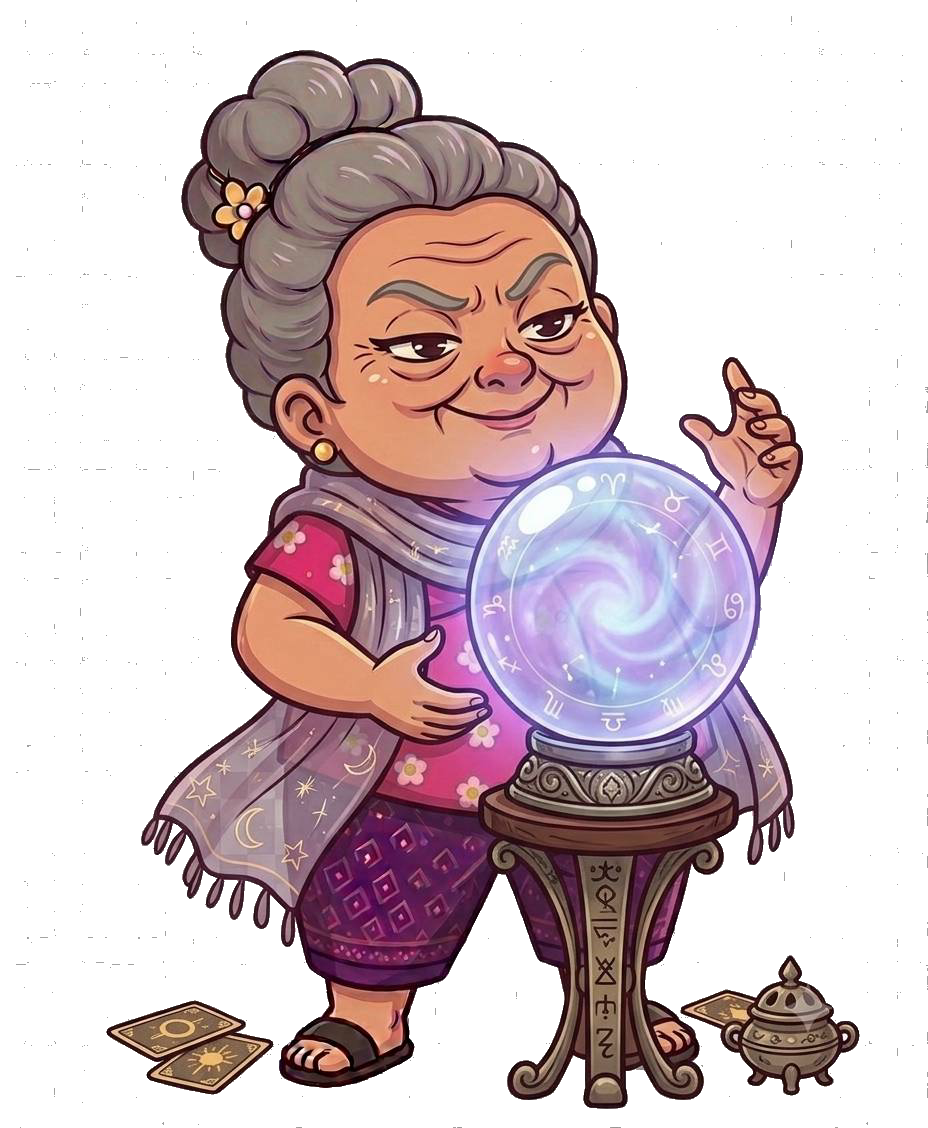
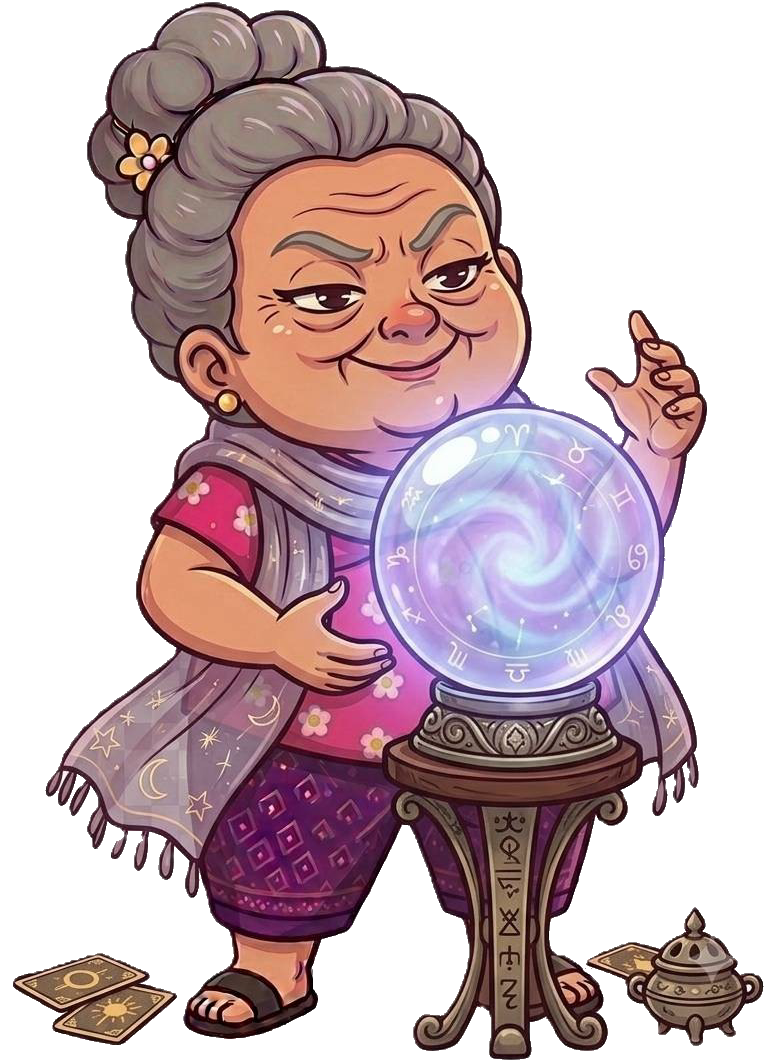
feat: การ์ดแชร์ดีไซน์ใหม่ตาม sample (หัวกระดาษ pattern), แก้วงล้อ ท, ตัด 12/13 ใหม่
- การ์ดแชร์ LINE: ดีไซน์ใหม่ตาม sample — หัวกระดาษ pattern (โลโก้+ชื่อแอป) ใช้ซ้ำทุกการ์ด,
  พื้นเหลือง, ป้าอ้วนซ้าย + บับเบิลผล+คำพูด, ป้ายเกริ่น (พิลล์) + ลายเซ็นแอป
  หน้าอาหารส่ง tagline/watermark เฉพาะ
- วงล้อ: กลับเป็นตัวดำขอบขาว + strokeLinejoin/cap=round → ลบขีดขาวใต้ตัว ท
- ตัดขอบรูป 12 (หมอดู) / 13 (แฟชั่น) ใหม่จากต้นฉบับพื้นขาว ละเอียดขึ้น

diff --git a/src/components/CaptureCard.tsx b/src/components/CaptureCard.tsx
@@ -1,9 +1,9 @@
 /**
- * 🖼 CaptureCard — การ์ดผลลัพธ์แบบมีแบรนด์ ไว้ "แคปเป็นภาพ" เพื่อแชร์
- * สิ่งที่เห็นในการ์ดนี้ = สิ่งที่จะถูกเซฟเป็นรูปส่ง LINE (WYSIWYG)
+ * 🖼 CaptureCard — การ์ดผลลัพธ์แบบมีแบรนด์ ไว้ "แคปเป็นภาพ" เพื่อแชร์ LINE (WYSIWYG)
+ * ดีไซน์ตาม sample: หัวกระดาษ (pattern โลโก้+ชื่อแอป) → ป้าอ้วนซ้าย + บับเบิลผล+คำพูด → ลายเซ็นแอป
  *
- * ส่ง ref เข้ามาจากหน้าจอ แล้วใช้ ShareButton แคปจาก ref นี้
- * children = เนื้อผลลัพธ์ (ตัวเลข/ชื่อ/สี/รายการทีม ฯลฯ)
+ * - หัวกระดาษใช้ไฟล์ pattern.jpg (ใช้ซ้ำทุกการ์ดแชร์ทุกเครื่องสุ่ม)
+ * - children = เนื้อผลลัพธ์ (ชื่อเมนู/ตัวเลข/สี/รายการ ฯลฯ) โชว์เด่นในบับเบิล
  */
 import { forwardRef, ReactNode } from 'react';
 import { Image, StyleSheet, Text, View } from 'react-native';
@@ -13,33 +13,56 @@ import { fonts, fontSize } from '@/theme/typography';
 import { cartoonBox } from '@/theme/styles';
 import type { PaaUanMood } from '@/data/paaUanLines';
 
+// หัวกระดาษแบรนด์ (ไอคอนแอป + ชื่อ "ป้าอ้วน สุ่มให้") — ใช้ซ้ำทุกการ์ด
+const PATTERN = require('../../assets/images/pattern.jpg');
+
 interface Props {
   /** คำพูดป้าที่จะโชว์ในบับเบิลของการ์ด */
   comment: string;
   mood?: PaaUanMood;
-  /** บังคับเลือกอิริยาบทรูปเอง (เช่น 'dice' หน้าลูกเต๋า) — ถ้าใส่จะข้าม mood */
+  /** บังคับเลือกอิริยาบทรูปเอง (เช่น 'dice') — ถ้าใส่จะข้าม mood */
   pose?: PaaUanPose;
+  /** ป้ายเกริ่น (พิลล์) ใต้หัวกระดาษ เช่น "🍜 สุ่มเมนูวันนี้ ป้าจัดให้!" — ไม่ใส่ก็ไม่โชว์ */
+  tagline?: string;
+  /** ข้อความลายเซ็นใต้การ์ด (ปรับตามเครื่องสุ่มได้) */
+  watermark?: string;
   children: ReactNode;
 }
 
 export const CaptureCard = forwardRef<View, Props>(
-  ({ comment, mood = 'happy', pose, children }, ref) => {
+  (
+    { comment, mood = 'happy', pose, tagline, watermark = 'สุ่มจากใจป้าอ้วน 👵❤', children },
+    ref
+  ) => {
     const source = paaUanPoses[pose ?? paaUanByMood[mood]];
     return (
       // collapsable={false} จำเป็นบน Android เพื่อให้ view-shot แคปได้
       <View ref={ref} collapsable={false} style={styles.card}>
-        <Text style={styles.wordmark}>ป้าอ้วนสุ่มให้</Text>
+        {/* หัวกระดาษแบรนด์ */}
+        <Image source={PATTERN} style={styles.pattern} resizeMode="contain" />
 
-        <View style={styles.resultArea}>{children}</View>
+        {/* ป้ายเกริ่น (พิลล์) — โชว์เมื่อส่ง tagline มา */}
+        {tagline ? (
+          <View style={styles.taglinePill}>
+            <Text style={styles.taglineText}>{tagline}</Text>
+          </View>
+        ) : null}
 
-        <View style={styles.bubbleRow}>
+        {/* ป้าอ้วน (ซ้าย) + บับเบิลผล+คำพูด (ขวา) */}
+        <View style={styles.row}>
           <Image source={source} style={styles.paa} resizeMode="contain" />
+
           <View style={styles.bubble}>
-            <Text style={styles.bubbleText}>{comment}</Text>
+            <View style={styles.resultArea}>{children}</View>
+            <Text style={styles.comment}>{comment}</Text>
+
+            {/* หางบับเบิลชี้ไปทางป้า (ซ้าย) */}
+            <View style={styles.tailBorder} />
+            <View style={styles.tailFill} />
           </View>
         </View>
 
-        <Text style={styles.watermark}>สุ่มโดยแอป “ป้าอ้วนสุ่มให้” 👵</Text>
+        <Text style={styles.watermark}>{watermark}</Text>
       </View>
     );
   }
@@ -49,45 +72,91 @@ CaptureCard.displayName = 'CaptureCard';
 
 const styles = StyleSheet.create({
   card: {
-    ...cartoonBox(colors.cream, 5),
-    padding: 18,
-    gap: 14,
+    ...cartoonBox(colors.butter, 5),
+    padding: 16,
+    gap: 12,
   },
-  wordmark: {
+  pattern: {
+    width: '100%',
+    aspectRatio: 2.4, // หัวกระดาษกว้าง (โลโก้+ชื่อแอป) ไม่ให้สูงเกินไป
+    alignSelf: 'center',
+  },
+  taglinePill: {
+    alignSelf: 'center',
+    backgroundColor: colors.white,
+    borderWidth: 2.5,
+    borderColor: colors.ink,
+    borderRadius: 999,
+    paddingHorizontal: 18,
+    paddingVertical: 8,
+    marginTop: -2,
+  },
+  taglineText: {
     fontFamily: fonts.bold,
-    fontSize: fontSize.lg,
+    fontSize: fontSize.sm,
     color: colors.pink,
     textAlign: 'center',
+    lineHeight: 22,
   },
-  resultArea: {
-    alignItems: 'center',
-    justifyContent: 'center',
-    gap: 10,
-    paddingVertical: 6,
-  },
-  bubbleRow: {
+  row: {
     flexDirection: 'row',
-    alignItems: 'center',
-    gap: 8,
+    alignItems: 'flex-end',
+    gap: 6,
   },
   paa: {
-    width: 70,
-    height: 91,
+    width: 86,
+    height: 124,
   },
   bubble: {
     ...cartoonBox(colors.white, 3),
     flex: 1,
-    paddingVertical: 10,
-    paddingHorizontal: 12,
+    paddingVertical: 14,
+    paddingHorizontal: 14,
+    gap: 8,
+    minHeight: 120,
+    justifyContent: 'center',
   },
-  bubbleText: {
+  resultArea: {
+    alignItems: 'center',
+    justifyContent: 'center',
+    gap: 6,
+  },
+  comment: {
     fontFamily: fonts.medium,
     fontSize: fontSize.sm,
     color: colors.ink,
     lineHeight: 25, // เผื่อสระบน/ล่างภาษาไทยไม่ถูกตัด
+    textAlign: 'center',
+  },
+  // หางบับเบิลชี้ซ้าย (หาตัวป้า) — กึ่งกลางแนวตั้งของบับเบิล
+  tailBorder: {
+    position: 'absolute',
+    left: -14,
+    top: '46%',
+    width: 0,
+    height: 0,
+    borderTopWidth: 10,
+    borderBottomWidth: 10,
+    borderRightWidth: 14,
+    borderTopColor: 'transparent',
+    borderBottomColor: 'transparent',
+    borderRightColor: colors.ink,
+  },
+  tailFill: {
+    position: 'absolute',
+    left: -9,
+    top: '46%',
+    width: 0,
+    height: 0,
+    borderTopWidth: 10,
+    borderBottomWidth: 10,
+    borderRightWidth: 14,
+    borderTopColor: 'transparent',
+    borderBottomColor: 'transparent',
+    borderRightColor: colors.white,
   },
   watermark: {
-    fontFamily: fonts.regular,
+    fontFamily: fonts.semibold,
     fontSize: fontSize.xs,
     color: colors.muted,
     textAlign: 'center',

diff --git a/src/components/SpinWheel.tsx b/src/components/SpinWheel.tsx
@@ -134,15 +134,16 @@ export const SpinWheel = forwardRef<SpinWheelHandle, Props>(
                       stroke={colors.ink}
                       strokeWidth={2}
                     />
-                    {/* ตัวอักษรเอียงตามมุมชิ้น — วาด 2 ชั้น: ขอบดำหนาด้านหลัง + ตัวขาวทับ
-                        ใช้ตัวขาวเพราะอ่านชัดบนทุกสีช่อง และไม่เกิด "ขีดขาว" ใต้ตัวอักษรอย่าง ท */}
+                    {/* ตัวอักษรเอียงตามมุมชิ้น — วาด 2 ชั้น: ขอบขาวด้านหลัง + ตัวดำทับ ให้อ่านชัดบนทุกสี
+                        ใช้ strokeLinejoin/cap = round กันมุมแหลม (เช่นตัว ท) เกิด "ขีดขาว" ปลายแหลม */}
                     <SvgText
                       x={labelPos.x}
                       y={labelPos.y}
-                      stroke={colors.ink}
-                      strokeWidth={3}
+                      stroke={colors.white}
+                      strokeWidth={3.2}
                       strokeLinejoin="round"
-                      fill={colors.ink}
+                      strokeLinecap="round"
+                      fill={colors.white}
                       fontSize={fontSize}
                       fontFamily={fonts.bold}
                       textAnchor="start"
@@ -154,7 +155,7 @@ export const SpinWheel = forwardRef<SpinWheelHandle, Props>(
                     <SvgText
                       x={labelPos.x}
                       y={labelPos.y}
-                      fill={colors.white}
+                      fill={colors.ink}
                       fontSize={fontSize}
                       fontFamily={fonts.bold}
                       textAnchor="start"

diff --git a/app/randomizers/food-wheel.tsx b/app/randomizers/food-wheel.tsx
@@ -122,7 +122,14 @@ export default function FoodWheelScreen() {
         {/* การ์ดผลแบบแชร์ได้ */}
         {result && !spinning && (
           <Animated.View key={round} entering={BounceIn.duration(600)}>
-            <CaptureCard ref={cardRef} comment={bubble} mood={mood} pose={cardPose}>
+            <CaptureCard
+              ref={cardRef}
+              comment={bubble}
+              mood={mood}
+              pose={cardPose}
+              tagline="🍜 สุ่มเมนูวันนี้ ป้าจัดให้!"
+              watermark="แอปสุ่มอาหารจากใจป้าอ้วน ❤"
+            >
               <Text style={styles.resultEmoji}>🍜</Text>
               <Text style={styles.resultName}>{result}</Text>
             </CaptureCard>

diff --git a/src/theme/colors.ts b/src/theme/colors.ts
@@ -14,6 +14,7 @@ export const colors = {
   blue: '#3D7DCA',
   purple: '#8E5BB5',
   wine: '#A10559', // ม่วงแดง — หมวดดูดวง
+  butter: '#FDE9A0', // เหลืองอ่อน — พื้นการ์ดแชร์ (เข้ากับหัวกระดาษ pattern)
   // สถานะ
   shadow: '#1A1A1A', // สีเงา offset
   muted: '#9A8C76', // ตัวอักษรจาง
